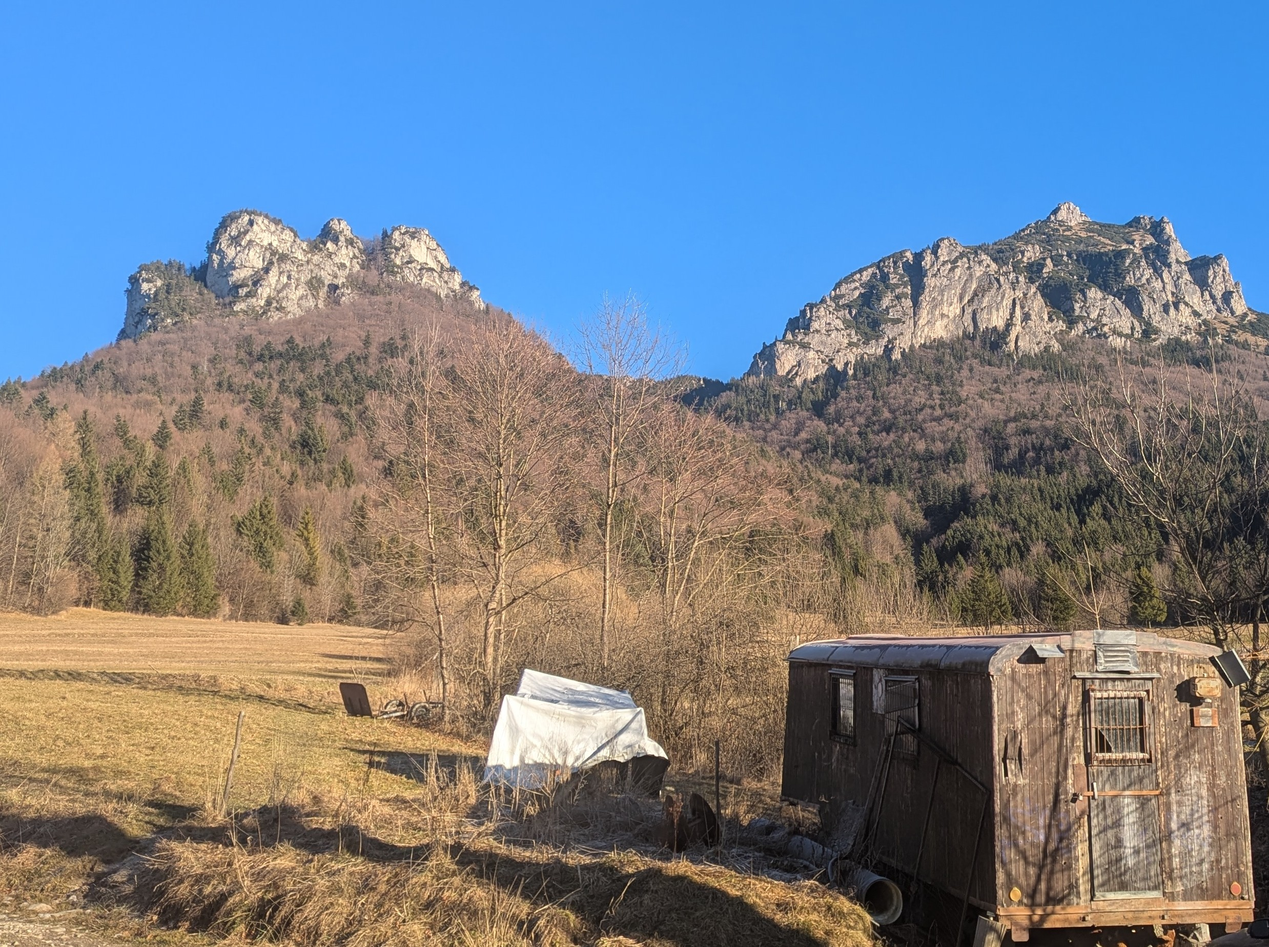
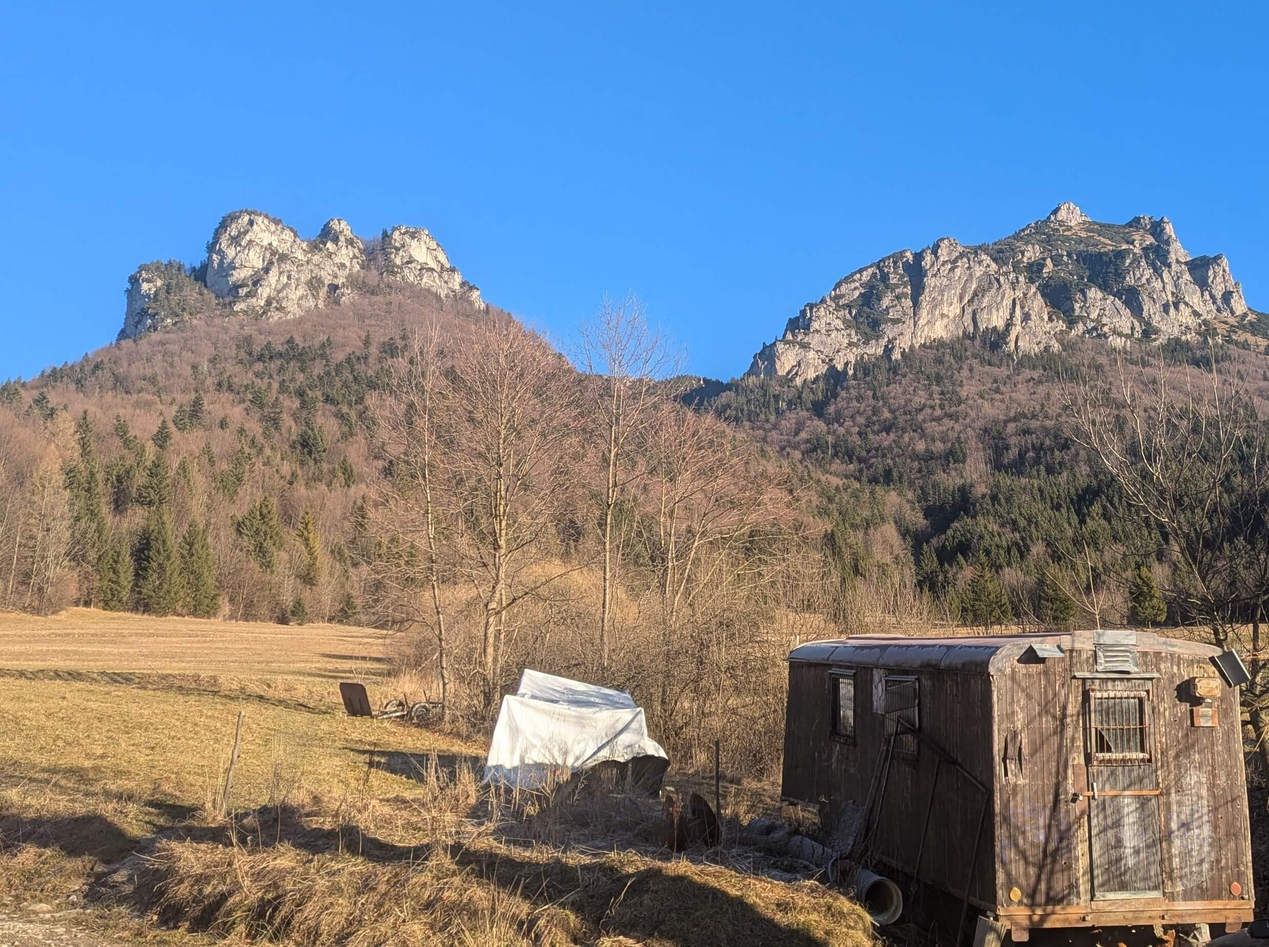
content update new forstudents info

diff --git a/docs/news.html b/docs/news.html
@@ -113,6 +113,10 @@ ul.task-list li input[type="checkbox"] {
     <a class="nav-link" href="./contact_us.html"> 
 <span class="menu-text">Kontakt</span></a>
   </li>  
+  <li class="nav-item">
+    <a class="nav-link" href="./forstudents.html"> 
+<span class="menu-text">Pre Študentov</span></a>
+  </li>  
 </ul>
           </div> <!-- /navcollapse -->
             <div class="quarto-navbar-tools">
@@ -156,7 +160,7 @@ ul.task-list li input[type="checkbox"] {
 </div><div class="column content">
 <section id="terénne-práce-v-kryštálovej-jaskyni" class="level2">
 <h2 class="anchored" data-anchor-id="terénne-práce-v-kryštálovej-jaskyni">Terénne práce v Kryštálovej jaskyni</h2>
-<p><strong>2025/12</strong> <br> Nela a Peter zrealizovali tohoročné posledné terénne práce v Kryštálovej jaskyni pod Rozsutcom. Potrebovali sme dovzorkovať sediment v jaskyni a odobrať vzorku pôdy nad jaskyňou. Po návšteve Terchovských jaskyniarov sme transpotrovali vzorky do laboratórií SAV v Banskej Bystrici, a odovzdané Adrianovi Biroňovi, s ktorým spolupracujeme.</p>
+<p><strong>2025/12</strong> <br> Nela a Peter zrealizovali tohoročné posledné terénne práce v Kryštálovej jaskyni pod Rozsutcom. Potrebovali sme dovzorkovať sediment v jaskyni a odobrať vzorku pôdy nad jaskyňou. Po návšteve Terchovských jaskyniarov sme transpotrovali vzorky do laboratórií SAV v Banskej Bystrici, aby sme ich odovzdali Adrianovi Biroňovi, s ktorým spolupracujeme.</p>
 </section>
 </div>
 </div>
@@ -216,7 +220,7 @@ ul.task-list li input[type="checkbox"] {
 </div><div class="column content">
 <section id="terénne-práce-v-kryštálovej-jaskyni-pod-rozsutcom" class="level2">
 <h2 class="anchored" data-anchor-id="terénne-práce-v-kryštálovej-jaskyni-pod-rozsutcom">Terénne práce v Kryštálovej jaskyni pod Rozsutcom</h2>
-<p><strong>2025/09</strong> <br> Nela a Peter sa zúčastnili terénnych prác v Kryštálovej jaskyni pod Rozsutcom v spolupráci s jaskyniarmi z lokálnej jaskyniarskej skupiny Adama Vallu z Terchovej, Tomášom a Milkou, ktorí poskytli kľúče od jaskyne, cenné informácie a milú spoločnosť. Cieľom prác bol odber in-situ vzoriek sedimentu a bezprostredne (stratigraficky) blízkych kryštálov z dvoch profilov, kde pozorujeme rôzne stratigrafické vzťahy kryštál-sediment. Vzorkovanie bolo realizované na základe povolenia č. OU-BA-OSZP1-2025/308259-034.</p>
+<p><strong>2025/09</strong> <br> Nela a Peter zrealizovali terénne práce v Kryštálovej jaskyni pod Rozsutcom v spolupráci s Tomášom a Milkou z lokálnej jaskyniarskej skupiny Adama Vallu z Terchovej, ktorí nám poskytli kľúče od jaskyne a cenné informácie. Cieľom prác bol odber in-situ vzoriek sedimentu a bezprostredne (stratigraficky) blízkych kryštálov z dvoch profilov, kde pozorujeme rôzne stratigrafické vzťahy kryštál-sediment. Vzorkovanie bolo realizované na základe povolenia č. OU-BA-OSZP1-2025/308259-034.</p>
 </section>
 </div>
 </div>
@@ -228,7 +232,7 @@ ul.task-list li input[type="checkbox"] {
 </div><div class="column content">
 <section id="výskumná-stáž-na-univerzite-v-innsbrucku" class="level2">
 <h2 class="anchored" data-anchor-id="výskumná-stáž-na-univerzite-v-innsbrucku">Výskumná stáž na univerzite v Innsbrucku</h2>
-<p><strong>2025/09</strong> <br> Nela získala štipendium od NSP na trojmesačnú stáž na univerzite Franza Leopolda v Innsbrucku, kde sa bude venovať analytickej práci na vzorkách z Kryštálovej jaskyne pod Rozsutcom (Malá Fatra). Plánované sú analýzy fluidných inklúzií a stabilných izotopov vo vzorkách kalcitu z tejto, a niekoľkých ďalších, kryštálových jaskýň.</p>
+<p><strong>2025/09</strong> <br> Nela získala štipendium od NŠF na trojmesačnú stáž na univerzite Franza Leopolda v Innsbrucku, kde sa bude venovať analytickej práci na vzorkách z Kryštálovej jaskyne pod Rozsutcom (Malá Fatra). Plánované sú analýzy fluidných inklúzií a stabilných izotopov vo vzorkách kalcitu z tejto, a niekoľkých ďalších, kryštálových jaskýň.</p>
 </section>
 </div>
 </div>
@@ -236,11 +240,11 @@ ul.task-list li input[type="checkbox"] {
 <div class="news">
 <div class="columns">
 <div class="column image">
-<p><img src="images/VVJ.jpg" class="img-fluid" alt="VVJ"></p>
+<p><img src="images/VVJ.png" class="img-fluid" alt="VVJ"></p>
 </div><div class="column content">
 <section id="získali-sme-povolenie-na-realizáciu-ďalších-terénnych-prác-a-odber-vzoriek-z-kyrštálových-jaskýň" class="level2">
 <h2 class="anchored" data-anchor-id="získali-sme-povolenie-na-realizáciu-ďalších-terénnych-prác-a-odber-vzoriek-z-kyrštálových-jaskýň">Získali sme povolenie na realizáciu ďalších terénnych prác a odber vzoriek z kyrštálových jaskýň</h2>
-<p><strong>2025/7</strong> <br> Okresným úradom životného prostredia v Bratislave nám bolo udelené povolenie č. OU-BA-OSZP1-2025/308259-029/LAJ a č. OU-BA-OSZP1-2025/308259-034 na výskum a odber vzoriek z kryštálových jaskýň na Slovensku, na územiach vybraných národných parkov a chránených krajinných oblastí, so súhlasom Slovenskej Správy Jaskýň.</p>
+<p><strong>2025/7</strong> <br> Okresným úradom životného prostredia v Bratislave nám bolo udelené povolenie č. OU-BA-OSZP1-2025/308259-029/LAJ a č. OU-BA-OSZP1-2025/308259-034 na výskum a odber vzoriek z kryštálových jaskýň na Slovensku, na územiach vybraných národných parkov a chránených krajinných oblastí, so súhlasom Správy slovenských jaskýň.</p>
 </section>
 </div>
 </div>
@@ -264,7 +268,7 @@ ul.task-list li input[type="checkbox"] {
 </div><div class="column content">
 <section id="speleoexkurzie-s-ekocentrom-stupava" class="level2">
 <h2 class="anchored" data-anchor-id="speleoexkurzie-s-ekocentrom-stupava">Speleoexkurzie s Ekocentrom Stupava</h2>
-<p><strong>2025/4</strong> <br> Nela s Petrom Zrealizovali sériu náučných exkurzií pre rodiny s deťmi, zameraných na environmentálnu výchovu a spoznávanie krasu, ochranu krasových vôd a praktické ukážky geochemických a geologických procesov prebiehajúcich v krasovej krajine. Exkurzie boli organizované Ekocentrom Stupava, konali sa v krasovom území spravovanom Speleoklubom Bratislava. Účastníci exkurzií podporili svojím príspevkom výskum a prieskum jaskýň.</p>
+<p><strong>2025/4</strong> <br> Nela s Petrom zrealizovali sériu náučných exkurzií pre rodiny s deťmi, zameraných na environmentálnu výchovu a spoznávanie krasu, ochranu krasových vôd a praktické ukážky geochemických a geologických procesov prebiehajúcich v krasovej krajine. Exkurzie boli organizované Ekocentrom Stupava, konali sa v krasovom území spravovanom Speleoklubom Bratislava. Účastníci exkurzií podporili svojím príspevkom výskum a prieskum jaskýň.</p>
 </section>
 </div>
 </div>
@@ -272,7 +276,7 @@ ul.task-list li input[type="checkbox"] {
 <div class="news">
 <div class="columns">
 <div class="column image">
-<p><img src="images/laura.krystalka.jpg" class="img-fluid" alt="3D fotografovanie"></p>
+<p><img src="images/laura_krystalka.jpg" class="img-fluid" alt="3D fotografovanie"></p>
 </div><div class="column content">
 <section id="virtuálna-prehliadka-kryštálovej-jaskyne-pod-rozsutcom" class="level2">
 <h2 class="anchored" data-anchor-id="virtuálna-prehliadka-kryštálovej-jaskyne-pod-rozsutcom">Virtuálna prehliadka Kryštálovej jaskyne pod Rozsutcom</h2>
@@ -296,7 +300,7 @@ ul.task-list li input[type="checkbox"] {
 <div class="news">
 <div class="columns">
 <div class="column image">
-<p><img src="images/helloworld.jpg" class="img-fluid" alt="Hello World!"></p>
+<p><img src="images/VVJ.jpg" class="img-fluid" alt="Hello World!"></p>
 </div><div class="column content">
 <section id="hello-world" class="level2">
 <h2 class="anchored" data-anchor-id="hello-world">Hello World!</h2>

diff --git a/docs/index.html b/docs/index.html
@@ -112,6 +112,10 @@ ul.task-list li input[type="checkbox"] {
     <a class="nav-link" href="./contact_us.html"> 
 <span class="menu-text">Kontakt</span></a>
   </li>  
+  <li class="nav-item">
+    <a class="nav-link" href="./forstudents.html"> 
+<span class="menu-text">Pre Študentov</span></a>
+  </li>  
 </ul>
           </div> <!-- /navcollapse -->
             <div class="quarto-navbar-tools">

diff --git a/docs/ourwork.html b/docs/ourwork.html
@@ -113,6 +113,10 @@ ul.task-list li input[type="checkbox"] {
     <a class="nav-link" href="./contact_us.html"> 
 <span class="menu-text">Kontakt</span></a>
   </li>  
+  <li class="nav-item">
+    <a class="nav-link" href="./forstudents.html"> 
+<span class="menu-text">Pre Študentov</span></a>
+  </li>  
 </ul>
           </div> <!-- /navcollapse -->
             <div class="quarto-navbar-tools">

diff --git a/docs/team.html b/docs/team.html
@@ -113,6 +113,10 @@ ul.task-list li input[type="checkbox"] {
     <a class="nav-link" href="./contact_us.html"> 
 <span class="menu-text">Kontakt</span></a>
   </li>  
+  <li class="nav-item">
+    <a class="nav-link" href="./forstudents.html"> 
+<span class="menu-text">Pre Študentov</span></a>
+  </li>  
 </ul>
           </div> <!-- /navcollapse -->
             <div class="quarto-navbar-tools">
